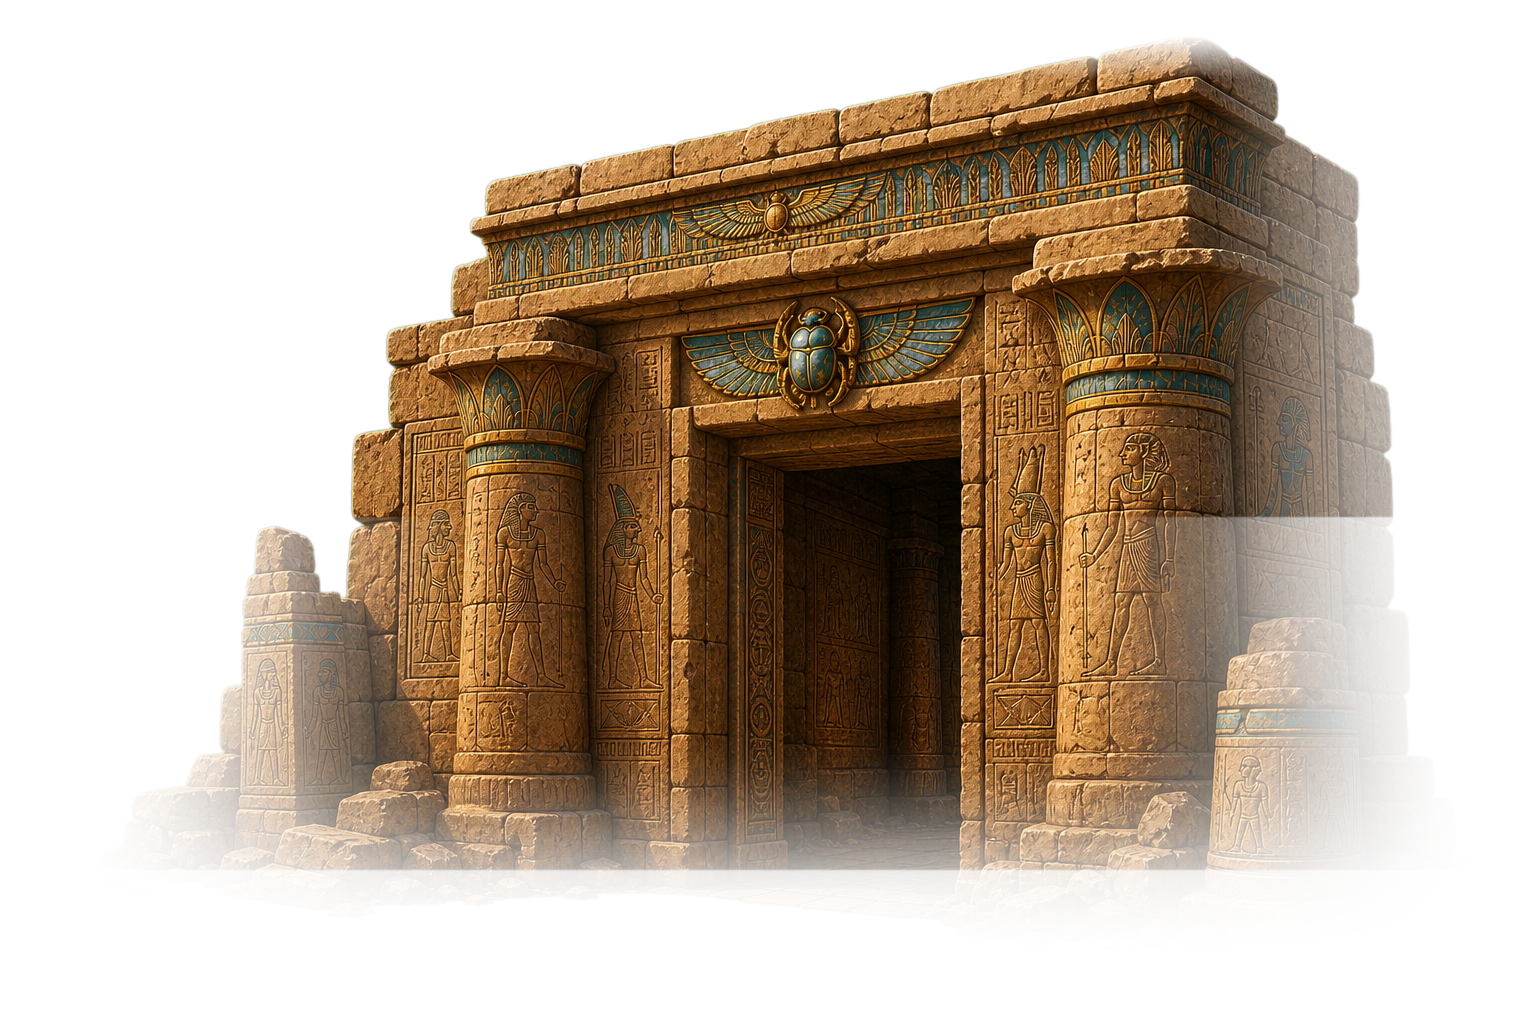
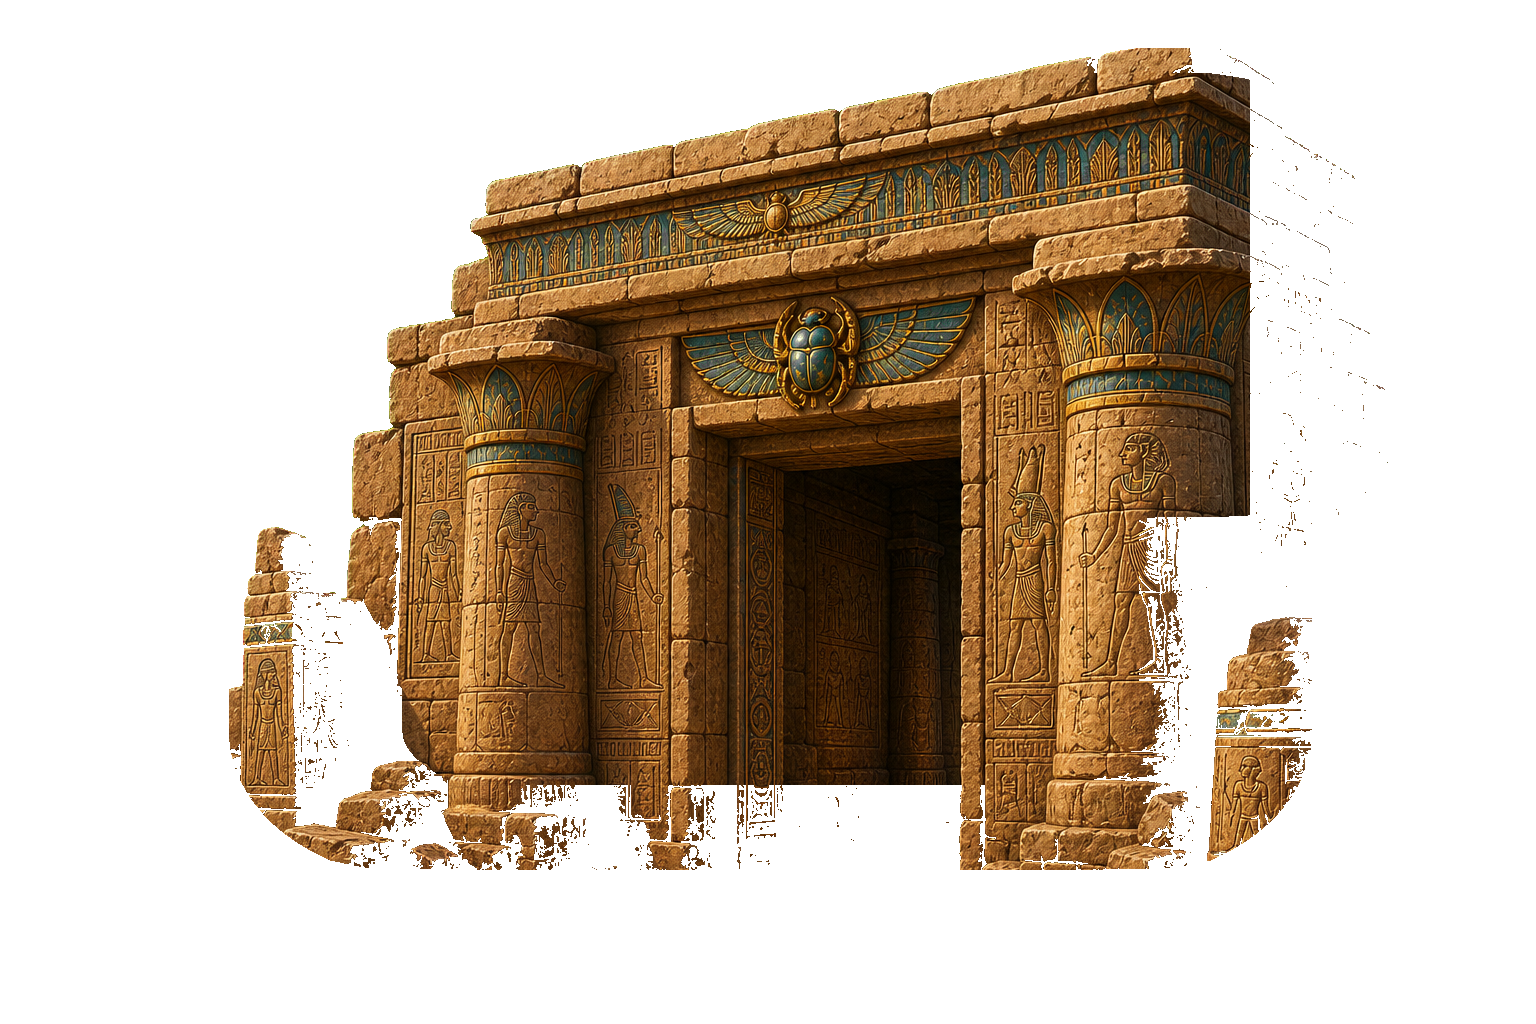
Make temple entrance permanent

diff --git a/src/components/ExpeditionJourney.jsx b/src/components/ExpeditionJourney.jsx
@@ -434,7 +434,7 @@ const DEFAULT_LEVEL_TRANSITION = {
 };
 
 const STAGE_ENTRANCE_THEME_FILTERS = {
-  'sunlit-desert-gateway': 'sepia(3%) saturate(98%) brightness(96%) contrast(103%) drop-shadow(0 16px 16px rgba(34, 18, 8, 0.24))',
+  'sunlit-desert-gateway': 'sepia(3%) saturate(104%) brightness(103%) contrast(101%)',
   'cool-catacomb-descent': 'sepia(8%) saturate(88%) hue-rotate(162deg) brightness(72%) contrast(116%) drop-shadow(0 18px 20px rgba(0, 8, 18, 0.42))',
   'collapsed-breach': 'sepia(22%) saturate(125%) hue-rotate(-8deg) brightness(86%) contrast(118%) drop-shadow(0 18px 18px rgba(46, 21, 8, 0.38))',
   'open-dig-site-threshold': 'sepia(10%) saturate(112%) hue-rotate(20deg) brightness(104%) contrast(98%) drop-shadow(0 12px 18px rgba(35, 25, 10, 0.22))',
@@ -6973,6 +6973,7 @@ export default function ExpeditionJourney({
     const current = stateRef.current;
     const routeGate = ROUTE_GATES.find(item => item.id === feature.routeGateId);
     const doorwayUnlocked = !routeGate || current.openedRouteGateIds?.has(routeGate.id) || areRouteGateRequirementsMetForState(routeGate, current);
+    const permanentStructure = Boolean(feature.permanentStructure);
     const passageVisual = feature.passageVisual || {};
     const doorwayCenterX = drawX + width * (passageVisual.centerX ?? 0.5);
     const doorwayCenterY = drawY + height * (passageVisual.centerY ?? 0.54);
@@ -6981,7 +6982,9 @@ export default function ExpeditionJourney({
 
     ctx.save();
     drawRouteGroundApron(ctx, centerX, floorY - 2, width * 0.72, sectionId, 0.78, Math.round(feature.x));
-    drawContactShadow(ctx, centerX, floorY + 2, width * 0.62, 0.28, 1.22);
+    if (!permanentStructure) {
+      drawContactShadow(ctx, centerX, floorY + 2, width * 0.62, 0.28, 1.22);
+    }
     ctx.save();
     ctx.filter = STAGE_ENTRANCE_THEME_FILTERS[feature.structureTheme] || 'drop-shadow(0 16px 16px rgba(34, 18, 8, 0.24))';
     ctx.drawImage(doorwayAsset.image, drawX, drawY, width, height);
@@ -7009,35 +7012,37 @@ export default function ExpeditionJourney({
       ctx.globalAlpha = 1;
     }
 
-    const vignette = ctx.createRadialGradient(doorwayCenterX, doorwayCenterY, width * 0.08, doorwayCenterX, doorwayCenterY, width * 0.5);
-    vignette.addColorStop(0, `rgba(20, 184, 166, ${doorwayUnlocked ? 0.08 + focus * 0.1 : 0.03})`);
-    vignette.addColorStop(0.5, 'rgba(20, 10, 5, 0)');
-    vignette.addColorStop(1, `rgba(18, 10, 6, ${0.08 + focus * 0.18})`);
-    ctx.fillStyle = vignette;
-    ctx.fillRect(drawX, drawY, width, height);
+    if (!permanentStructure) {
+      const vignette = ctx.createRadialGradient(doorwayCenterX, doorwayCenterY, width * 0.08, doorwayCenterX, doorwayCenterY, width * 0.5);
+      vignette.addColorStop(0, `rgba(20, 184, 166, ${doorwayUnlocked ? 0.08 + focus * 0.1 : 0.03})`);
+      vignette.addColorStop(0.5, 'rgba(20, 10, 5, 0)');
+      vignette.addColorStop(1, `rgba(18, 10, 6, ${0.08 + focus * 0.18})`);
+      ctx.fillStyle = vignette;
+      ctx.fillRect(drawX, drawY, width, height);
 
-    ctx.globalAlpha = doorwayUnlocked ? 0.18 + focus * 0.16 + pulse * 0.04 : 0.32 + focus * 0.08;
-    ctx.fillStyle = doorwayUnlocked ? 'rgba(8, 18, 24, 0.72)' : 'rgba(18, 13, 9, 0.82)';
-    ctx.beginPath();
-    ctx.ellipse(doorwayCenterX, doorwayCenterY, doorwayRadiusX, doorwayRadiusY, 0, 0, Math.PI * 2);
-    ctx.fill();
-    ctx.globalAlpha = 1;
-
-    if (!doorwayUnlocked) {
-      const lockPulse = 0.7 + Math.sin(now / 260) * 0.12;
-      ctx.globalAlpha = 0.78;
-      ctx.fillStyle = 'rgba(30, 19, 10, 0.72)';
+      ctx.globalAlpha = doorwayUnlocked ? 0.18 + focus * 0.16 + pulse * 0.04 : 0.32 + focus * 0.08;
+      ctx.fillStyle = doorwayUnlocked ? 'rgba(8, 18, 24, 0.72)' : 'rgba(18, 13, 9, 0.82)';
       ctx.beginPath();
-      ctx.roundRect(doorwayCenterX - 38, doorwayCenterY - 34, 76, 76, 12);
-      ctx.fill();
-      ctx.strokeStyle = `rgba(250, 204, 21, ${0.48 + lockPulse * 0.24})`;
-      ctx.lineWidth = 3;
-      ctx.stroke();
-      ctx.fillStyle = `rgba(250, 204, 21, ${0.34 + lockPulse * 0.2})`;
-      ctx.beginPath();
-      ctx.ellipse(doorwayCenterX, doorwayCenterY + 2, 22, 28, 0, 0, Math.PI * 2);
+      ctx.ellipse(doorwayCenterX, doorwayCenterY, doorwayRadiusX, doorwayRadiusY, 0, 0, Math.PI * 2);
       ctx.fill();
       ctx.globalAlpha = 1;
+
+      if (!doorwayUnlocked) {
+        const lockPulse = 0.7 + Math.sin(now / 260) * 0.12;
+        ctx.globalAlpha = 0.78;
+        ctx.fillStyle = 'rgba(30, 19, 10, 0.72)';
+        ctx.beginPath();
+        ctx.roundRect(doorwayCenterX - 38, doorwayCenterY - 34, 76, 76, 12);
+        ctx.fill();
+        ctx.strokeStyle = `rgba(250, 204, 21, ${0.48 + lockPulse * 0.24})`;
+        ctx.lineWidth = 3;
+        ctx.stroke();
+        ctx.fillStyle = `rgba(250, 204, 21, ${0.34 + lockPulse * 0.2})`;
+        ctx.beginPath();
+        ctx.ellipse(doorwayCenterX, doorwayCenterY + 2, 22, 28, 0, 0, Math.PI * 2);
+        ctx.fill();
+        ctx.globalAlpha = 1;
+      }
     }
 
     drawGroundDustLip(ctx, centerX, floorY, width * 0.72, 'rgba(216, 154, 82, 0.26)');

diff --git a/src/components/expedition-journey/journeySecrets.test.js b/src/components/expedition-journey/journeySecrets.test.js
@@ -365,6 +365,7 @@ test('world continuity landmarks foreshadow future expedition sections', () => {
   });
   assert.match(stageEntranceFeatures, /type:\s*'tomb-doorway'/);
   assert.match(stageEntranceFeatures, /id:\s*'ruined-temple-colossus-gate'[\s\S]*?yOffset:\s*13/);
+  assert.match(stageEntranceFeatures, /id:\s*'ruined-temple-colossus-gate'[\s\S]*?permanentStructure:\s*true/);
   assert.match(stageEntranceFeatures, /width:\s*1260/);
   assert.match(stageEntranceFeatures, /height:\s*630/);
   assert.match(stageEntranceFeatures, /focusDistance:\s*560/);
@@ -374,6 +375,9 @@ test('world continuity landmarks foreshadow future expedition sections', () => {
   assert.match(journeyComponentSource, /stageEntranceDoorwayRef/);
   assert.match(journeyComponentSource, /Math\.min\(0,\s*CANVAS_HEIGHT - height\) \+ \(feature\.yOffset \|\| 0\)/);
   assert.match(journeyComponentSource, /ctx\.drawImage\(doorwayAsset\.image/);
+  assert.match(journeyComponentSource, /const permanentStructure = Boolean\(feature\.permanentStructure\)/);
+  assert.match(journeyComponentSource, /if \(!permanentStructure\) \{[\s\S]*?drawContactShadow\(ctx, centerX, floorY \+ 2, width \* 0\.62, 0\.28, 1\.22\)/);
+  assert.match(journeyComponentSource, /if \(!permanentStructure\) \{[\s\S]*?const vignette = ctx\.createRadialGradient[\s\S]*?ctx\.ellipse\(doorwayCenterX, doorwayCenterY, doorwayRadiusX, doorwayRadiusY/);
   assert.match(journeyComponentSource, /mode:\s*'stage-entrance'/);
   assert.match(journeyComponentSource, /nearbyStageEntrance\.x - CANVAS_WIDTH \* 0\.5/);
   assert.match(journeyComponentSource, /drawStageEntranceFeature/);

diff --git a/src/components/expedition-journey/journeyLevelData.js b/src/components/expedition-journey/journeyLevelData.js
@@ -1266,6 +1266,7 @@ export const STAGE_ENTRANCE_FEATURES = [
     type: 'tomb-doorway',
     assetKey: 'desertEndGateway',
     structureTheme: 'sunlit-desert-gateway',
+    permanentStructure: true,
     width: 940,
     height: 620,
     yOffset: 13,
